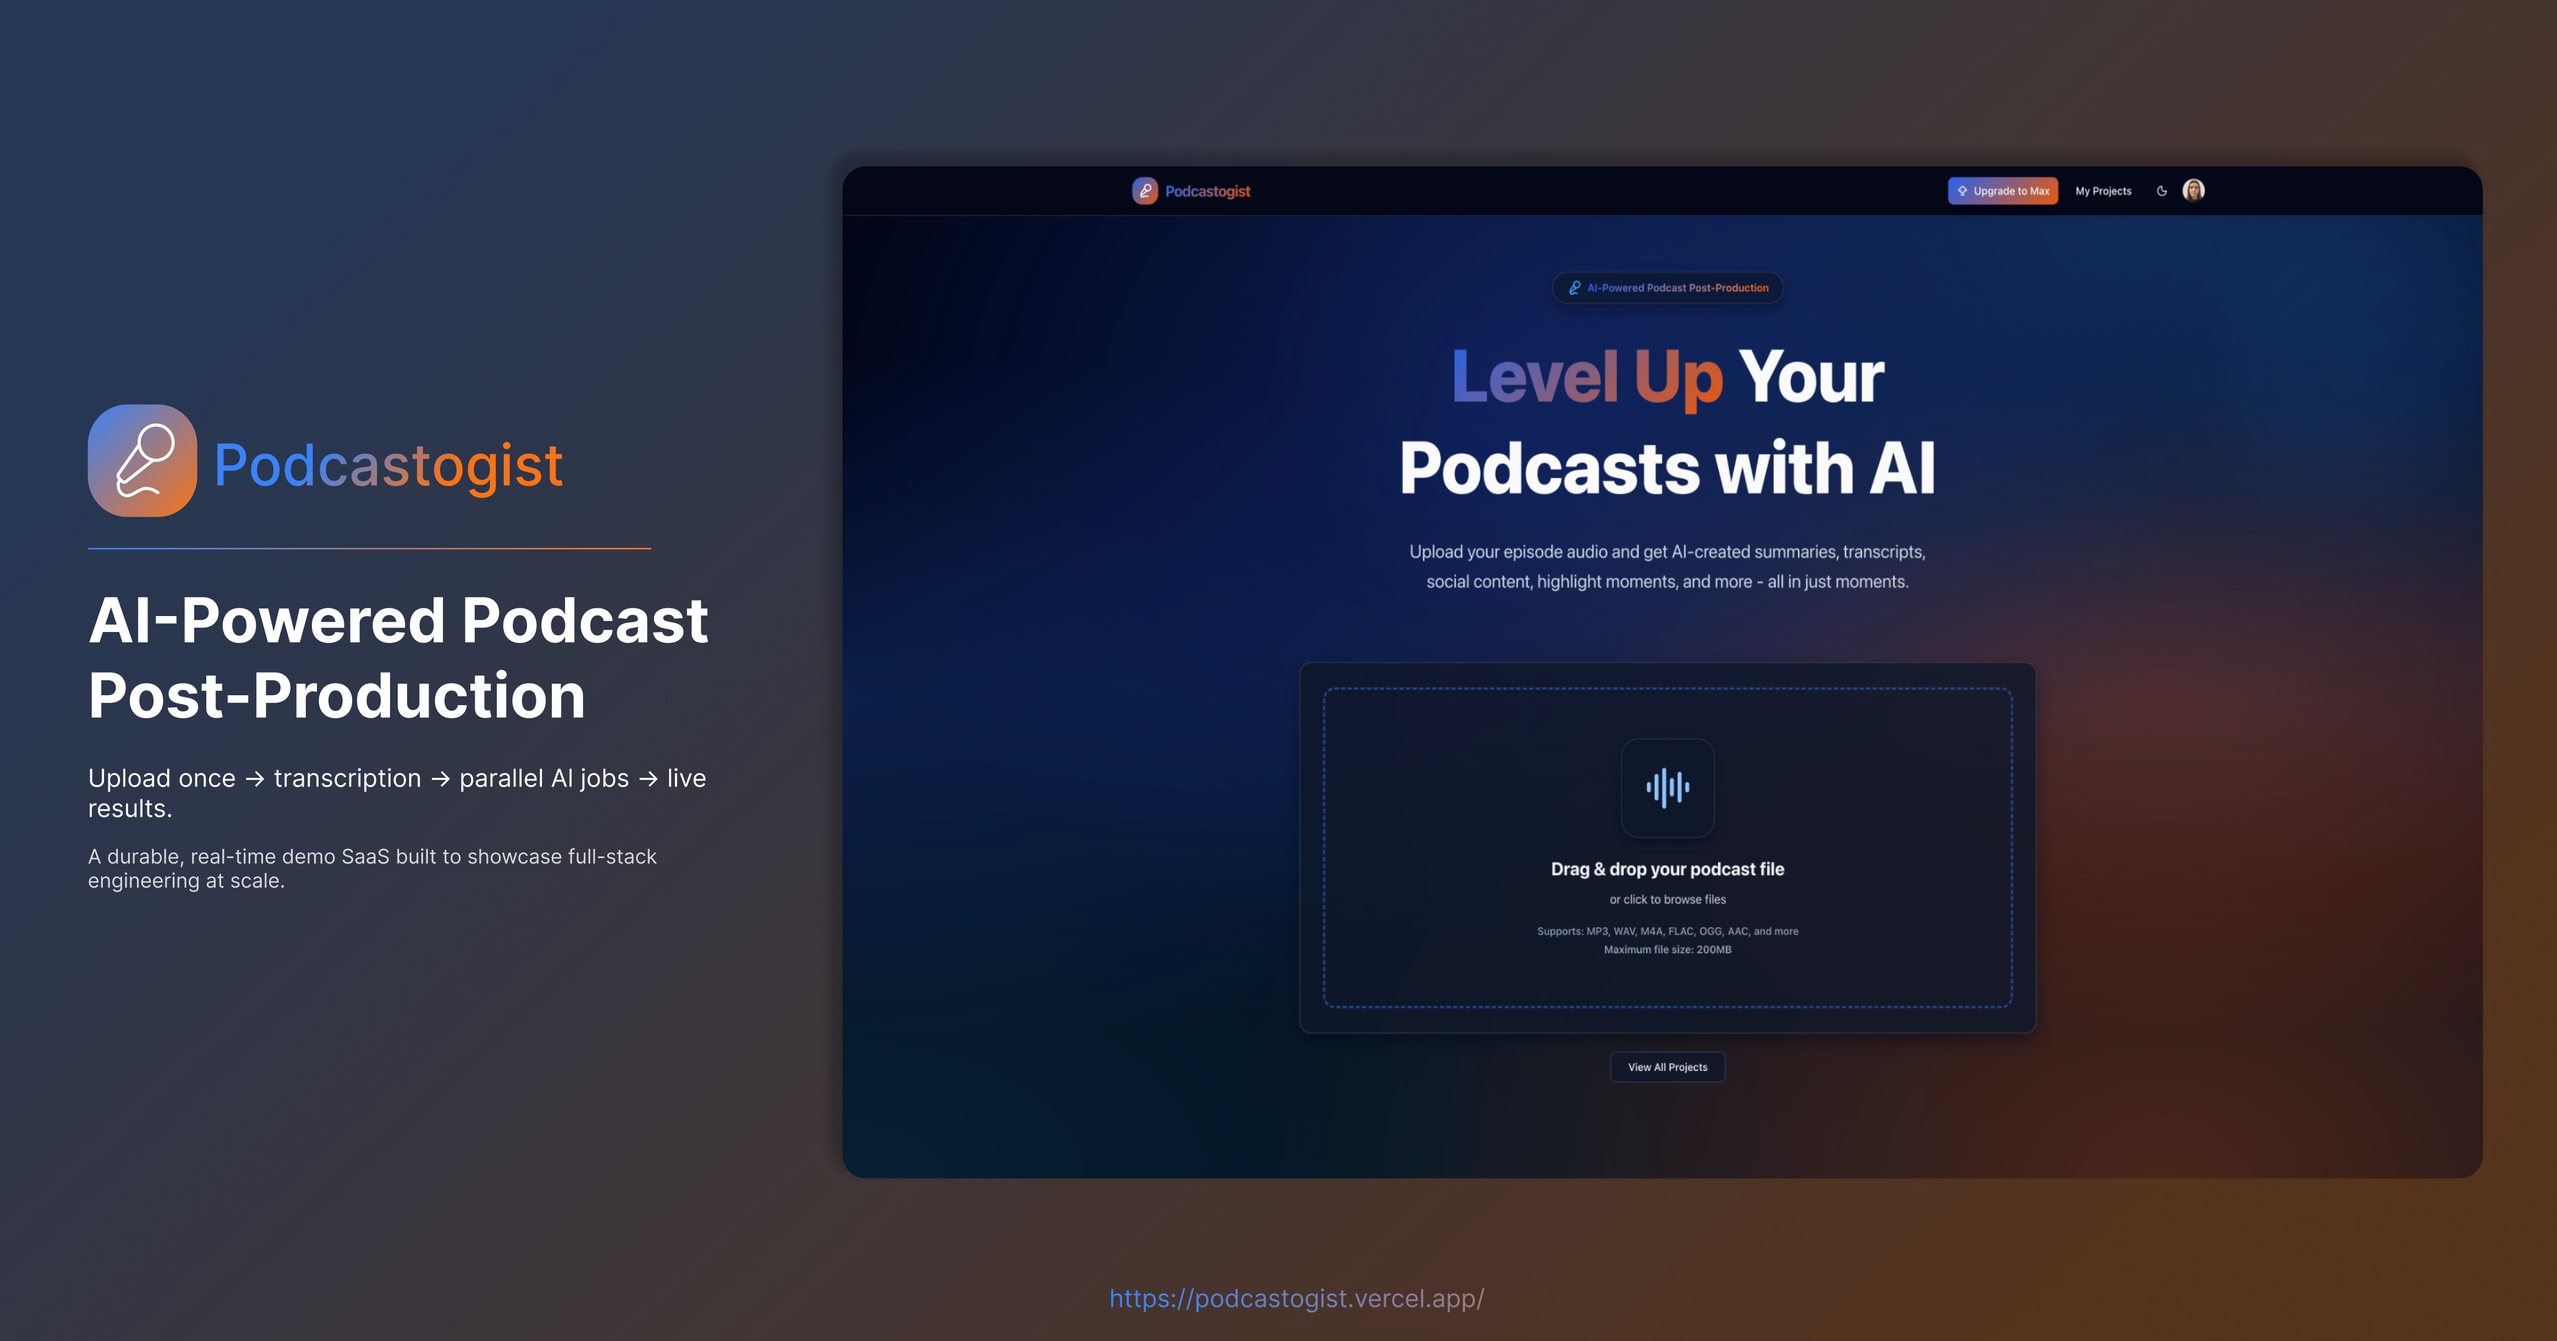
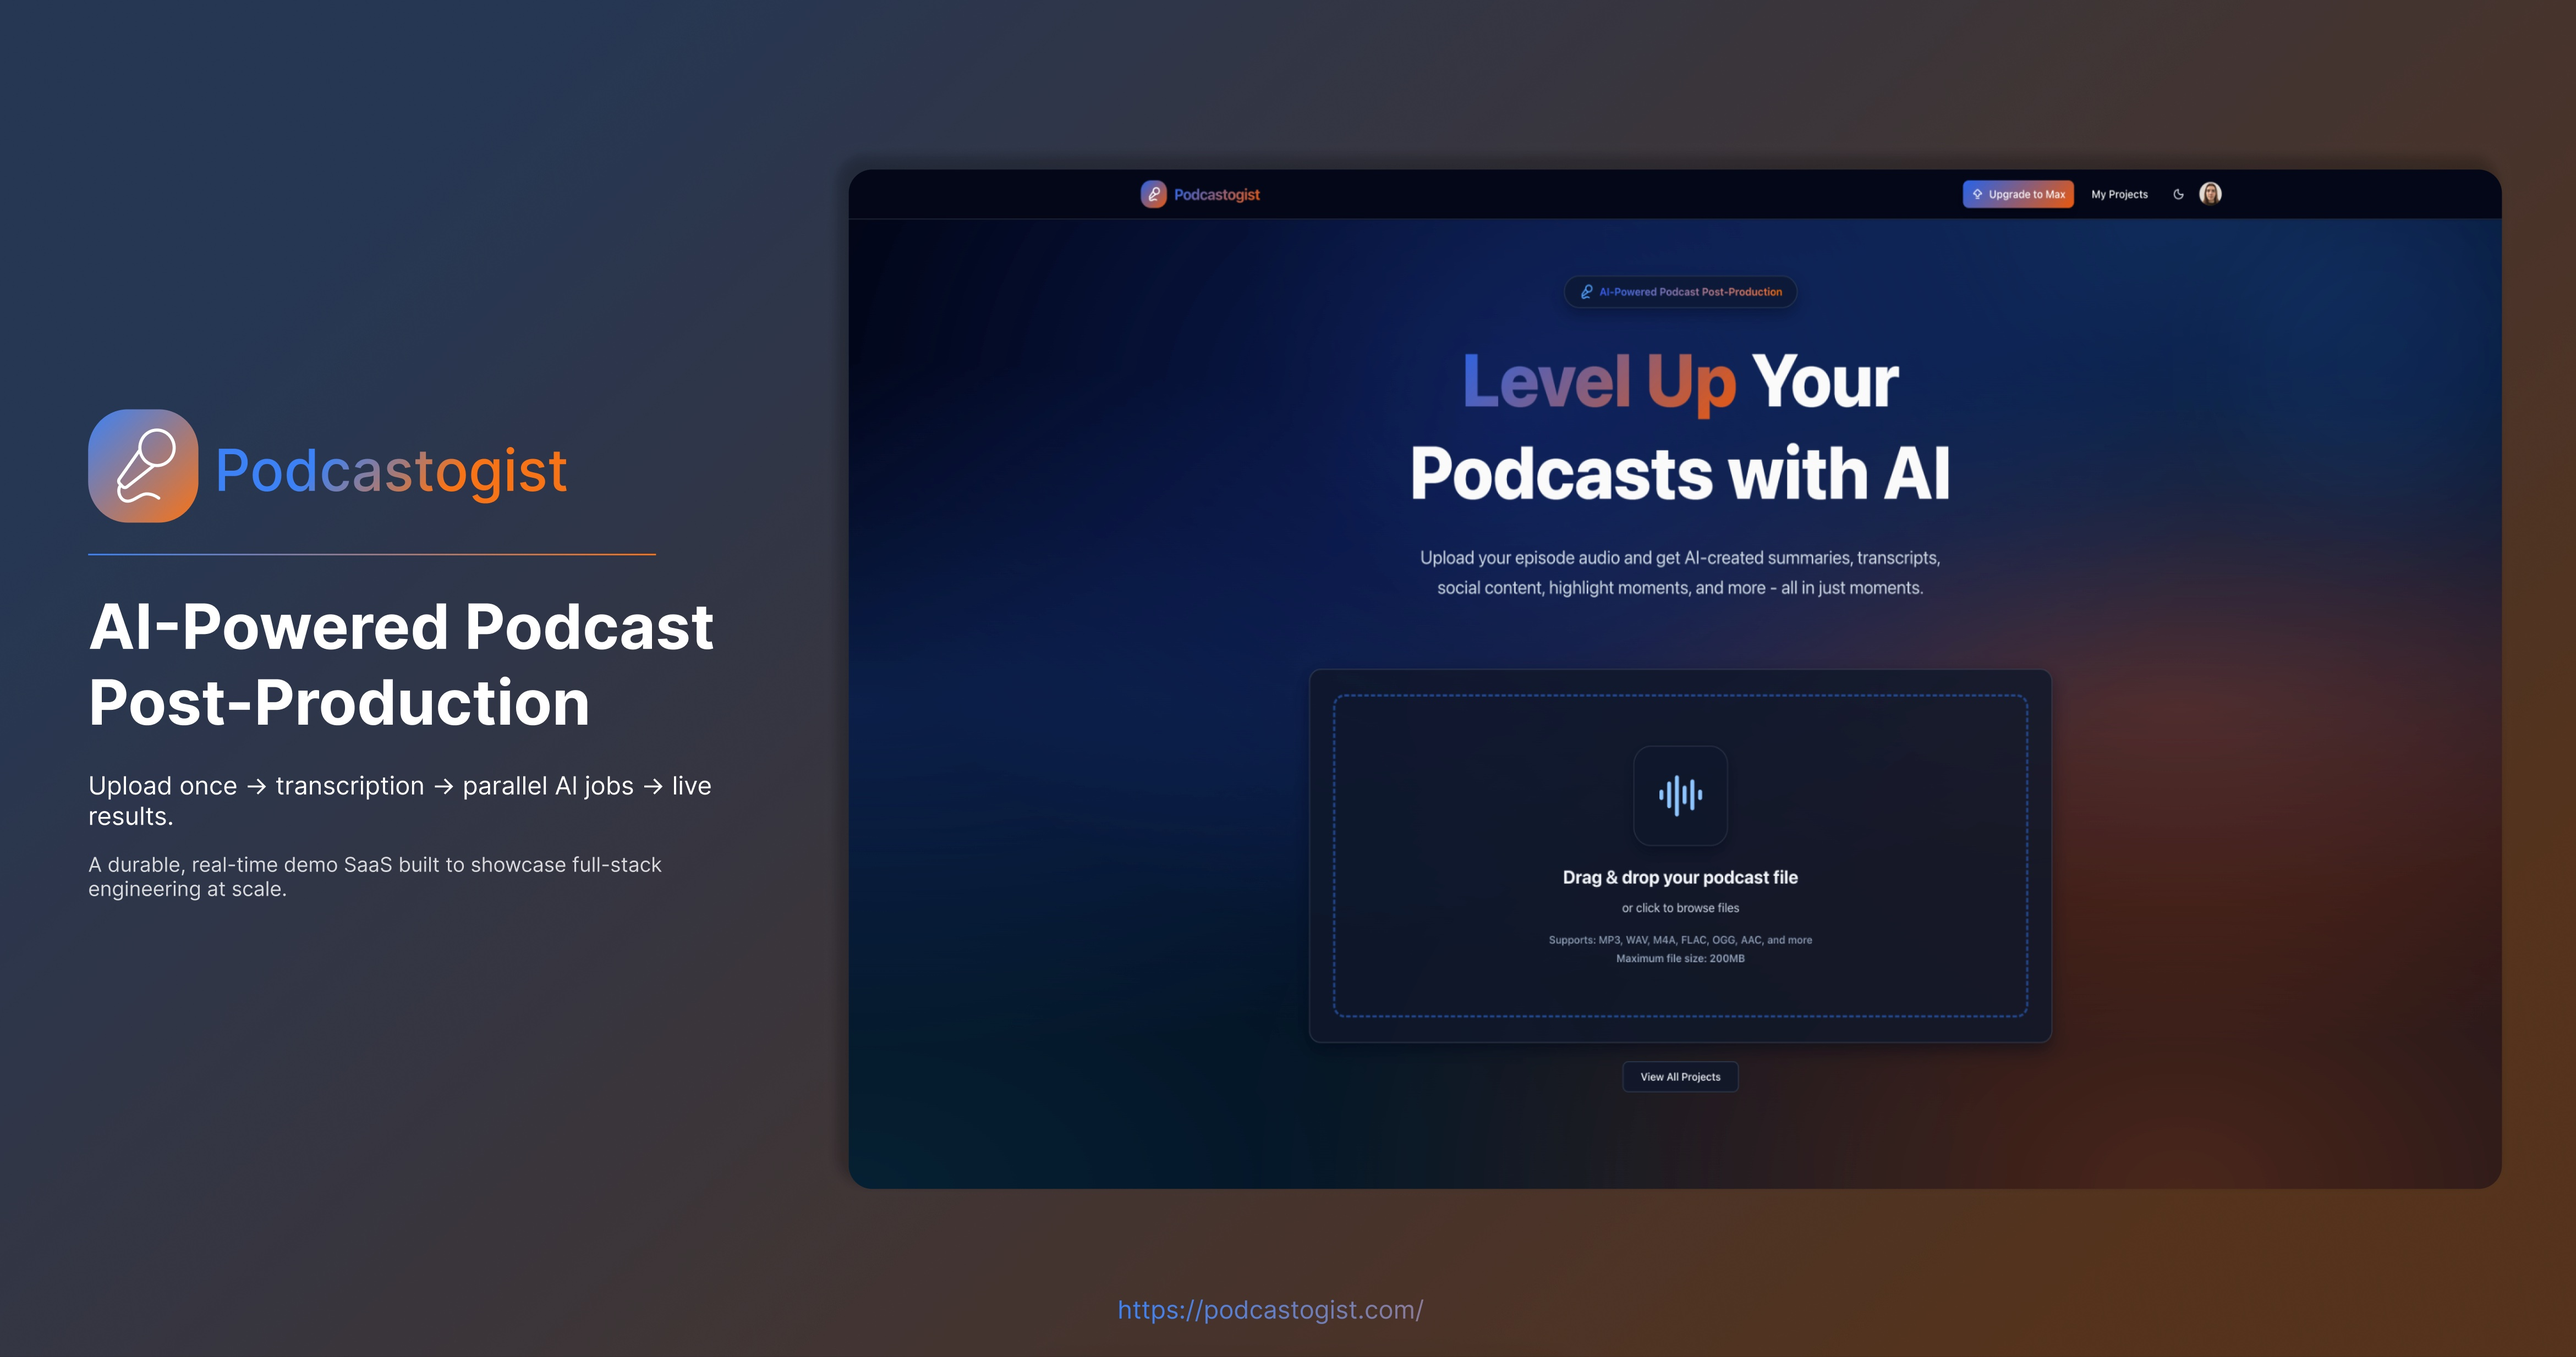
Update the App's Domain Mentions to Point to the New Custom Domain

diff --git a/README.md b/README.md
@@ -8,7 +8,7 @@
 
 ![Podcastogist Hero](readme-assets/hero-banner.jpeg)
 
-**Website:** https://podcastogist.vercel.app/  
+**Website:** https://podcastogist.com/  
 **Repository:** https://github.com/lindsaycode05/podcastogist  
 **Issues:** https://github.com/lindsaycode05/podcastogist/issues  
 **LinkedIn:** https://www.linkedin.com/in/lindsaycode/
